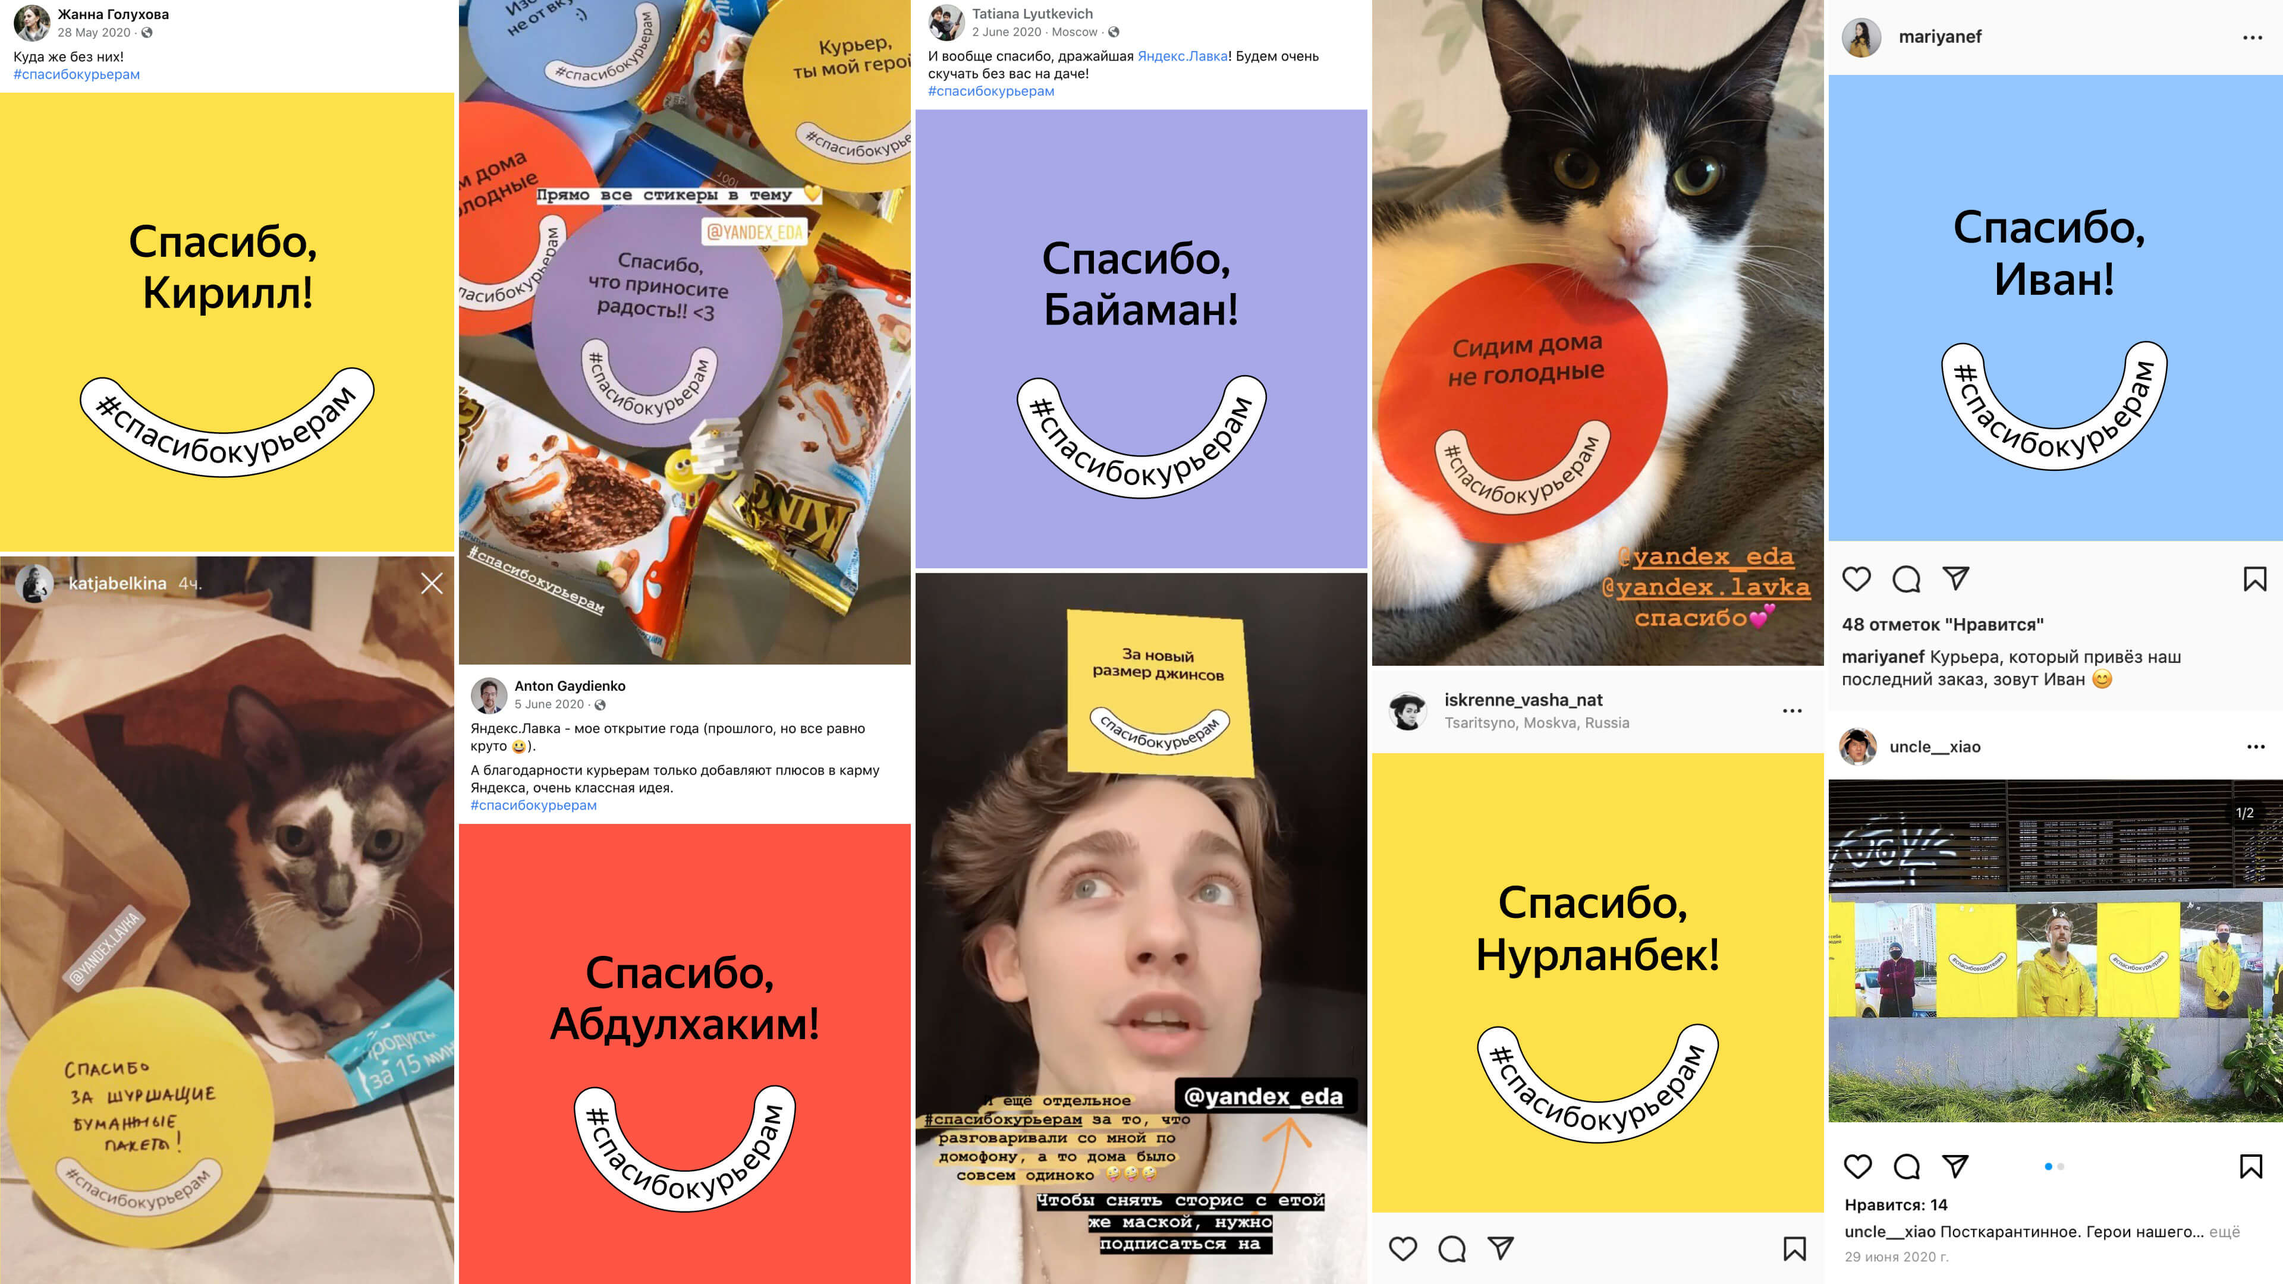
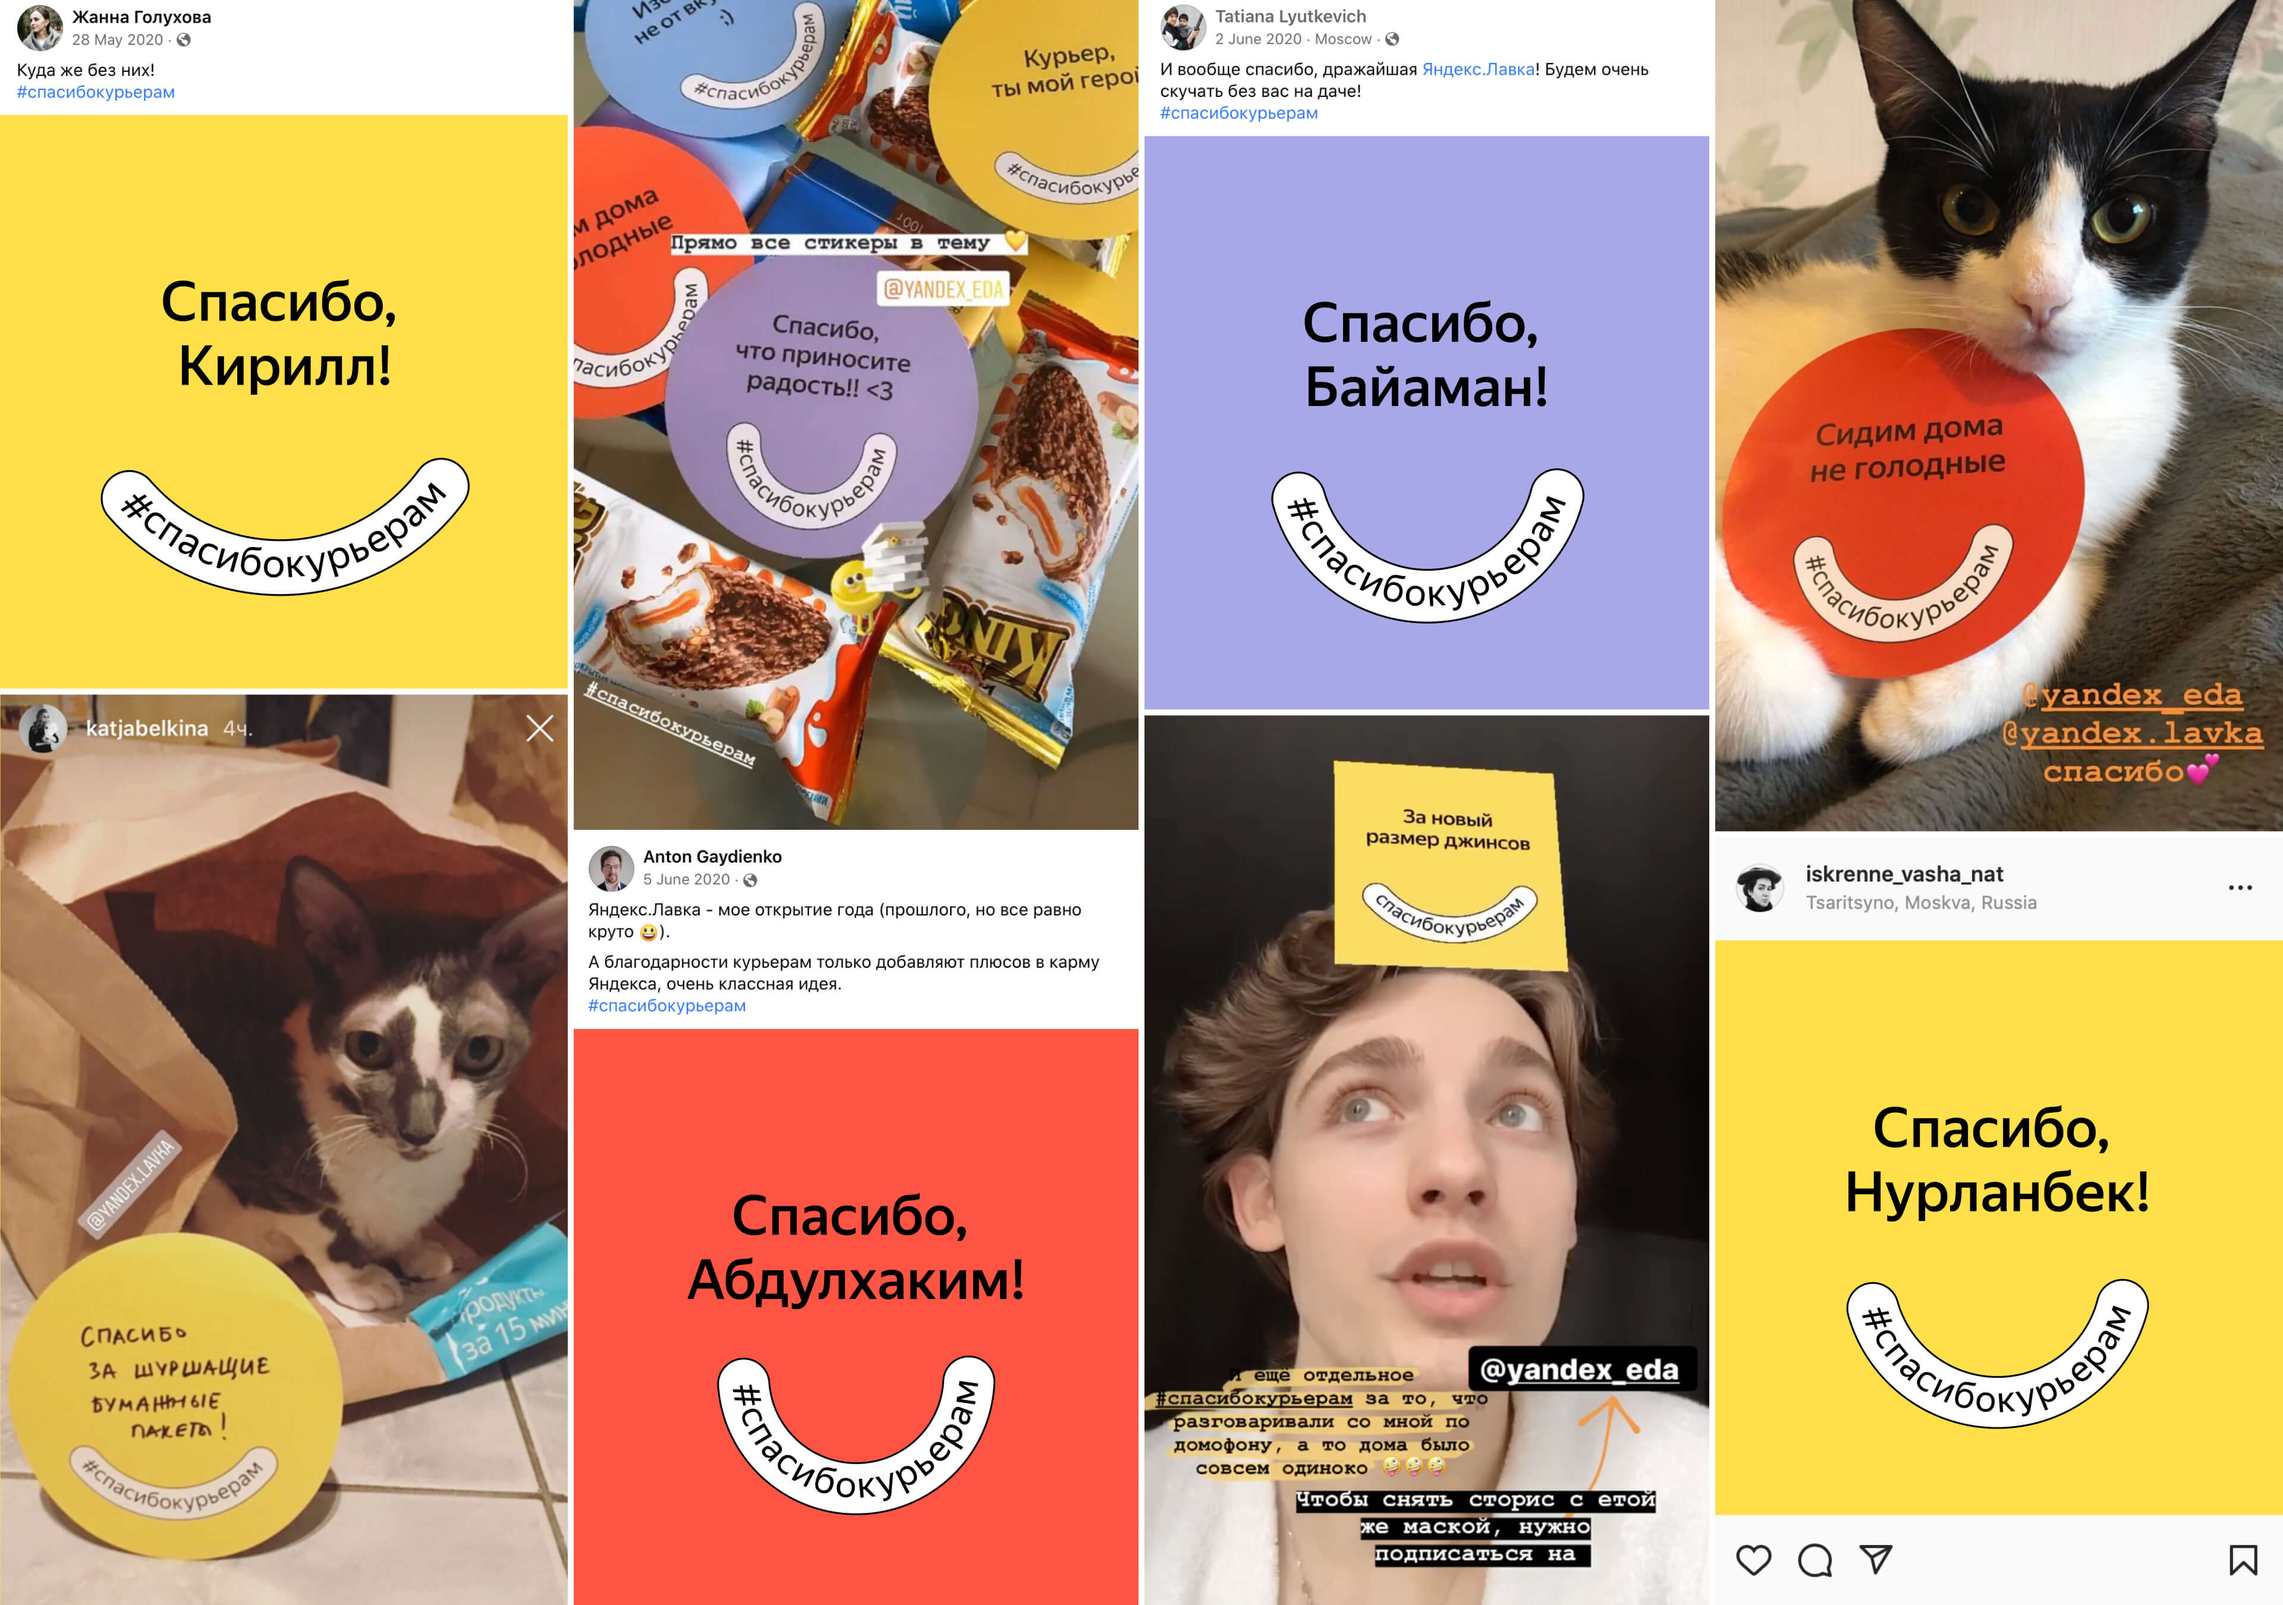
Thank couriers redesign

diff --git a/about.html b/about.html
@@ -33,9 +33,9 @@
     <div class="about-text">
         <p class="about-info"><span class="formal">I&nbsp;am</span> design generalist, working accross brand-communiactions for the last 6&nbsp;years. <span class="formal">I&nbsp;have</span> media, agency and in-house creative studio background. <span class="formal">I&nbsp;make</span> brand campaigns, visual identities and design systems. <span class="formal">I&nbsp;like</span> systematic approach, fast ideation and simple beauty.</p>
         <p class="formal-grey">Work experience:</p>
-        <p class="about-formal"> 2019 – Present. Senior designer at Yandex’s in-house creative studio <a class="intext-link" target=”_blank” href="https://wearemagiccamp.com">Magic Camp.</a><br>
+        <p class="about-formal"> 2019 – Present. Senior designer at Yandex in-house creative studio <a class="intext-link" target=”_blank” href="https://wearemagiccamp.com">Magic Camp.</a><br>
           2018 – 2019. Designer at ctzn agency.<br>
-          2017 – 2018. Digital designer at RBC special projects department.</p>
+          2017 – 2018. Digital designer at RBC <a class="intext-link" target=”_blank” href="https://specialists.ru">special projects</a> department.</p>
         <p class="formal-grey">Awards:</p>
         <p class="about-formal">Eurobest Bronze<br>
           ADC Awards&nbsp;2 Gold cubes<br>
@@ -43,7 +43,7 @@
         <p class="formal-grey">Education:</p>
         <p class="about-formal">British Higher School of art and design, Media Design faculty.</p>
         <p class="formal-grey">Contacts:</p>
-        <p class="about-formal">Facebook, LinkedIn, E-mail</p>
+        <p class="about-formal"><a class="intext-link" target=”_blank” href="https://www.facebook.com/justfingers/">Facebook</a>, <a class="intext-link" href = "mailto: kirillov.k.322@gmail.com">Email</a></p>
     </div>
     <div class="about-photo-mobile">
       <img src="./about/photo.png" alt="me">

diff --git a/cardboard-media.html b/cardboard-media.html
@@ -26,7 +26,7 @@
     </div>
     <div class="role">
         <p class="info">COVID-19 has been a&nbsp;very difficult time for the homeless. There were fewer people on&nbsp;the streets and no&nbsp;one noticed their calls for help. So&nbsp;we&nbsp;decided to&nbsp;use the surfaces of&nbsp;Yandex Market boxes to&nbsp;deliver messages from the cardboard signes of&nbsp;homeless. We&nbsp;also added a&nbsp;feature, so&nbsp;people can reuse this boxes to&nbsp;send clothes and other basics to&nbsp;the homeless for free.</p>
-        <p class="formal">Client: <span class="name">Yandex&nbsp;Market.</span> Agency: <span class="name">Magic Camp (in&#8209;house).</span> Team: <span class="name">Olga Veretinskaya, Tatiana Kolotilova, Daria Kosacheva.</span> Role: <span class="name">Art-director.</span> Year: <span class="name">2021.</span> Recognitions: <span class="name">Eurobest Bronze, ADC Awards&nbsp;2 Gold cubes, The One Show 3&nbsp;merits.</span></p>
+        <p class="formal">Client: <span class="name">Yandex&nbsp;Market.</span> Agency: <span class="name">Magic Camp (in&#8209;house).</span> Team: <span class="name">Olga Veretinskaia, Tatiana Kolotilova, Daria Kosacheva.</span> Role: <span class="name">Art-director.</span> Year: <span class="name">2021.</span> Recognitions: <span class="name">Eurobest Bronze, ADC Awards&nbsp;2 Gold cubes, The One Show 3&nbsp;merits.</span></p>
     </div>
   </div>
   <div class="case">

diff --git a/uber-bus.html b/uber-bus.html
@@ -25,8 +25,8 @@
         <h1>Too long — Uber</h1>
     </div>
     <div class="role">
-        <p class="info">&laquo;We&nbsp;bought ad&nbsp;surfaces at&nbsp;the bus stops and got one week to&nbsp;create print ads&raquo;, says marketing manager. In&nbsp;this &laquo;ASAP situation&raquo; we&nbsp;decided to&nbsp;go&nbsp;&laquo;As&nbsp;simple as&nbsp;possible&raquo; in&nbsp;showcasing Uber benefits against bus.</p>
-        <p class="formal">Client: <span class="name">Uber Azerbaijan.</span> Agency: <span class="name">Magic Camp (in&#8209;house).</span> Team: <span class="name">Tatiana Kolotilova, Sasha Votinov, Kirill Kotov.</span> Role: <span class="name">Art-director.</span> Year: <span class="name">2022.</span></p>
+        <p class="info">&laquo;We&nbsp;bought ad&nbsp;surfaces at&nbsp;the bus stops and got one week to&nbsp;create print ads&raquo;, says marketing manager. In&nbsp;this &laquo;ASAP situation&raquo; we&nbsp;decided to&nbsp;go&nbsp;as&nbsp;simple as&nbsp;possible in&nbsp;showcasing Uber benefits against bus.</p>
+        <p class="formal">Client: <span class="name">Uber Azerbaijan.</span> Agency: <span class="name">Magic Camp (in&#8209;house).</span> Team: <span class="name">Tatiana Kolotilova, Sasha Klimovskiy, Kirill Kotov.</span> Role: <span class="name">Art-director.</span> Year: <span class="name">2022.</span></p>
     </div>
   </div>
     <div class="case">

diff --git a/thank-you.html b/thank-you.html
@@ -34,13 +34,16 @@
     </div>
     <div class="case">
       <img class="row-img" src="./thank-you/2.png">
+      <p class="caption">#thankcouriers</p>
     </div>
     <div class="case-columns">
       <div class="case-columns-1">
         <img class="column-img" src="./thank-you/3.png">
+        <p class="caption">&laquo;Thanks, Ivan!&raquo; Sharing the name of courier after order in&nbsp;Yandex Eats</p>
       </div>  
       <div class="case-columns-2">
         <img class="column-img" src="./thank-you/4.png">
+        <p class="caption">Printed stikers in Yandex Eats orders</p>
       </div>
     </div>
     <div class="case">
@@ -48,23 +51,6 @@
     </div>
     <div class="case">
       <img class="row-img" src="./thank-you/6.jpg">
-    </div>
-    <div class="case">
-      <img class="row-img" src="./thank-you/7.jpg">
-    </div>
-    <div class="case">
-      <img class="row-img" src="./thank-you/8.jpg">
-    </div>
-    <div class="case-columns">
-      <div class="case-columns-1">
-        <img class="column-img" src="./thank-you/9.jpg">
-      </div>  
-      <div class="case-columns-2">
-        <img class="column-img" src="./thank-you/10.jpg">
-      </div>
-    </div>
-    <div class="case">
-      <img class="row-img" src="./thank-you/11.jpg">
     </div>
 </body>
 <!--next&previous-->

diff --git a/mentors.html b/mentors.html
@@ -26,7 +26,7 @@
     </div>
     <div class="role">
         <p class="info">Mentors are the top rated taxi drivers, helping beginners kickstart their work in&nbsp;the Yandex Taxi. They are very proud of&nbsp;their status, so&nbsp;we&rsquo;ve decided to&nbsp;enhance this feeling and created a&nbsp;simple logo and uniform to&nbsp;present mentors themselfs as&nbsp;the main identity element.</p>
-        <p class="formal">Client: <span class="name">Yandex&nbsp;Pro (App for taxi drivers).</span> Agency: <span class="name">Magic Camp (in&#8209;house).</span> Team: <span class="name">Vova Kulikov, Sasha Votinov, Liza Dovzhik.</span> Role: <span class="name">Designer.</span> Year: <span class="name">2020.</span></p>
+        <p class="formal">Client: <span class="name">Yandex&nbsp;Pro (App for taxi drivers).</span> Agency: <span class="name">Magic Camp (in&#8209;house).</span> Team: <span class="name">Vladimir Kulikov, Sasha Klimovskiy, Liza Dovzhik.</span> Role: <span class="name">Designer.</span> Year: <span class="name">2020.</span></p>
     </div>
   </div>
   <div class="case">

diff --git a/uber-visit.html b/uber-visit.html
@@ -26,7 +26,7 @@
     </div>
     <div class="role">
         <p class="info">How to&nbsp;get the youngsters to&nbsp;choose Uber more often for spontaneous rides? We&nbsp;choosed one of&nbsp;the youngest directors, Meateye, who starred himself in&nbsp;this short commercial about how Uber beat lazyness.</p>
-        <p class="formal">Client:&nbsp;<span class="name">Uber Russia.</span> Agency:&nbsp;<span class="name">Magic&nbsp;Camp (in&#8209;house).</span> Team: <span class="name">Tatiana Kolotilova, Sasha Votinov, Kirill Kotov.</span> Role:&nbsp;<span class="name">Art-director.</span> Year:&nbsp;<span class="name">2022.</span></p>
+        <p class="formal">Client:&nbsp;<span class="name">Uber Russia.</span> Agency:&nbsp;<span class="name">Magic&nbsp;Camp (in&#8209;house).</span> Team: <span class="name">Tatiana Kolotilova, Sasha Klimovskiy, Kirill Kotov.</span> Role:&nbsp;<span class="name">Art-director.</span> Year:&nbsp;<span class="name">2022.</span></p>
     </div>
   </div>
     <div class="case">

diff --git a/style.css b/style.css
@@ -1,7 +1,6 @@
 @import url('https://rsms.me/inter/inter.css');
 html { font-family: 'Inter', sans-serif; }
 
-
 html {
   font-size: 16px;
   font-family: Inter, sans-serif;
